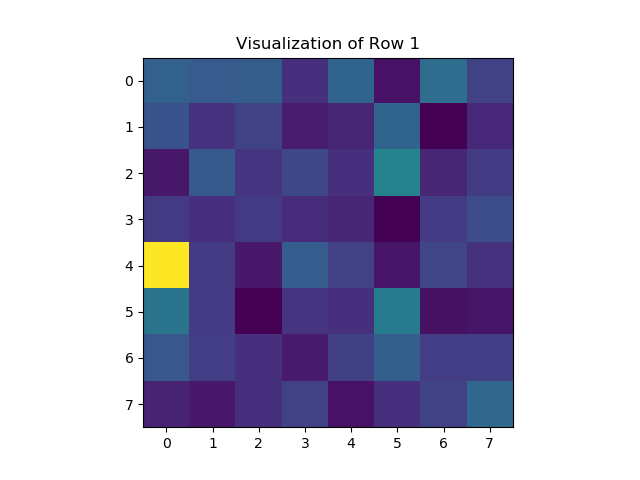
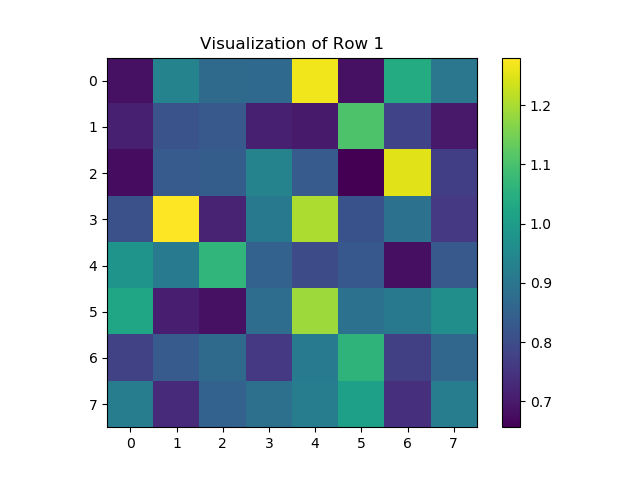
Fixed FA again, added colorbars

diff --git a/lab3/a3.py b/lab3/a3.py
@@ -354,13 +354,13 @@ def negFALL(X, mu, psi, W, N):
 	Psi_inv = tf.diag(1.0/psi)
 	Sigma = Psi + tf.matmul(W, W, True, False)
 	# print X.get_shape()[0]
-	log_det = N*2.0*tf.reduce_sum(tf.log(tf.diag_part(tf.cholesky(Sigma))))
+	log_det = -N*2.0*tf.reduce_sum(tf.log(tf.diag_part(tf.cholesky(Sigma))))
 
 	diff = X-mu
 	inv = tf.matrix_inverse(Sigma)
 	inv_times_diff = tf.matmul(inv, diff, False, True)
 	A = tf.matmul(diff, inv_times_diff)
-	exponent = tf.reduce_sum(A)
+	exponent = -tf.reduce_sum(A)
 	return log_det + exponent
 
 def factorAnalysis (K, data, LEARNINGRATE, epochs):
@@ -377,7 +377,7 @@ def factorAnalysis (K, data, LEARNINGRATE, epochs):
 	psi = tf.exp(tf.Variable(tf.random_normal([D],mean=0,stddev=0.25)))
 	W = tf.exp(tf.Variable(tf.random_normal([K, D],mean=0,stddev=0.25)))
 
-	L = negFALL(X, mu, psi, W, B)
+	L = -negFALL(X, mu, psi, W, B)
 
 	adam_op = tf.train.AdamOptimizer(LEARNINGRATE, beta1=0.9, beta2=0.99, epsilon=1e-5).minimize(L)
 
@@ -399,17 +399,48 @@ def factorAnalysis (K, data, LEARNINGRATE, epochs):
 	
 	return loss_array, valid_loss, W_
 
+# 
+# K = 4
+# 
+# tinymnist = np.load ("tinymnist.npz")
+# # 	trainData, trainTarget = data ["x"], data["y"]
+# #	validData, validTarget = data ["x_valid"], data ["y_valid"]
+# #	testData, testTarget = data ["x_test"], data ["y_test"]
+# 
+# # def factorAnalysis (K, data, LEARNINGRATE, epochs):
+# loss_array, valid_loss, W = factorAnalysis(K, tinymnist, LEARNINGRATE, 1200)
+# # print W # W is 4 x 64
+# W = np.reshape(W, (K, 8, 8))
+# # print W
+# 
+# for i in range(K):
+# 	plt.figure(i)
+# 	plt.imshow(W[i])
+# 	plt.title('Visualization of Row ' + str(i))
+# 	plt.xlabel('')
+# 	plt.ylabel('')
+# 	plt.colorbar()
+# 	plt.show()
+
+
+#############################################################################
+#
+# Part 3.1.3 ################################################################
+#
+# 
+
 def factorAnalysis2 (K, data, LEARNINGRATE, epochs):
 
 	B = data.shape[0]
 	D = data.shape[1]
+	print B
 
 	X = tf.placeholder("float32",shape=[None,D])
 	mu = tf.Variable(tf.random_normal([D],stddev=0.25))
 	psi = tf.exp(tf.Variable(tf.random_normal([D],mean=0,stddev=0.25)))
 	W = tf.exp(tf.Variable(tf.random_normal([K, D],mean=0,stddev=0.25)))
 
-	L = negFALL(X, mu, psi, W, B)
+	L = -negFALL(X, mu, psi, W, B)
 
 	adam_op = tf.train.AdamOptimizer(LEARNINGRATE, beta1=0.9, beta2=0.99, epsilon=1e-5).minimize(L)
 
@@ -430,34 +461,9 @@ def factorAnalysis2 (K, data, LEARNINGRATE, epochs):
 	
 	return loss_array, valid_loss, W_
 
-
-K = 4
-
-tinymnist = np.load ("tinymnist.npz")
-# 	trainData, trainTarget = data ["x"], data["y"]
-#	validData, validTarget = data ["x_valid"], data ["y_valid"]
-#	testData, testTarget = data ["x_test"], data ["y_test"]
-
-# def factorAnalysis (K, data, LEARNINGRATE, epochs):
-loss_array, valid_loss, W = factorAnalysis(K, tinymnist, LEARNINGRATE, 1500)
-# print W # W is 4 x 64
-W = np.reshape(W, (K, 8, 8))
-# print W
-
-for i in range(K):
-	plt.figure(i)
-	plt.imshow(W[i])
-	plt.title('Visualization of Row ' + str(i))
-	plt.xlabel('')
-	plt.ylabel('')
-	plt.show()
-
-
-#############################################################################
-#
-# Part 3.1.3 ################################################################
-#
-# 
+def PCA ( K, data ):
+	cov = np.cov(data)
+	return np.linalg.eig(cov)
 
 K = 1
 
@@ -475,7 +481,19 @@ x[2] = 10*s[2]
 #	return loss_array, valid_loss, W_
 # 
 
-loss_array, valid_loss, W = factorAnalysis2 (K, x.T, LEARNINGRATE, 1000)
+w, v = PCA(K, x)
+# print w, v
+# print v[np.argmax(w)]
+
+plt.figure()
+plt.imshow(w.reshape((1,3)))
+plt.title('Visualization of PCA')
+plt.xlabel('')
+plt.ylabel('')
+plt.colorbar()
+plt.show()
+
+loss_array, valid_loss, W = factorAnalysis2 (K, x.T, LEARNINGRATE, 1200)
 
 # print W
 
@@ -484,4 +502,5 @@ plt.imshow(W)
 plt.title('Visualization of FA')
 plt.xlabel('')
 plt.ylabel('')
+plt.colorbar()
 plt.show()
